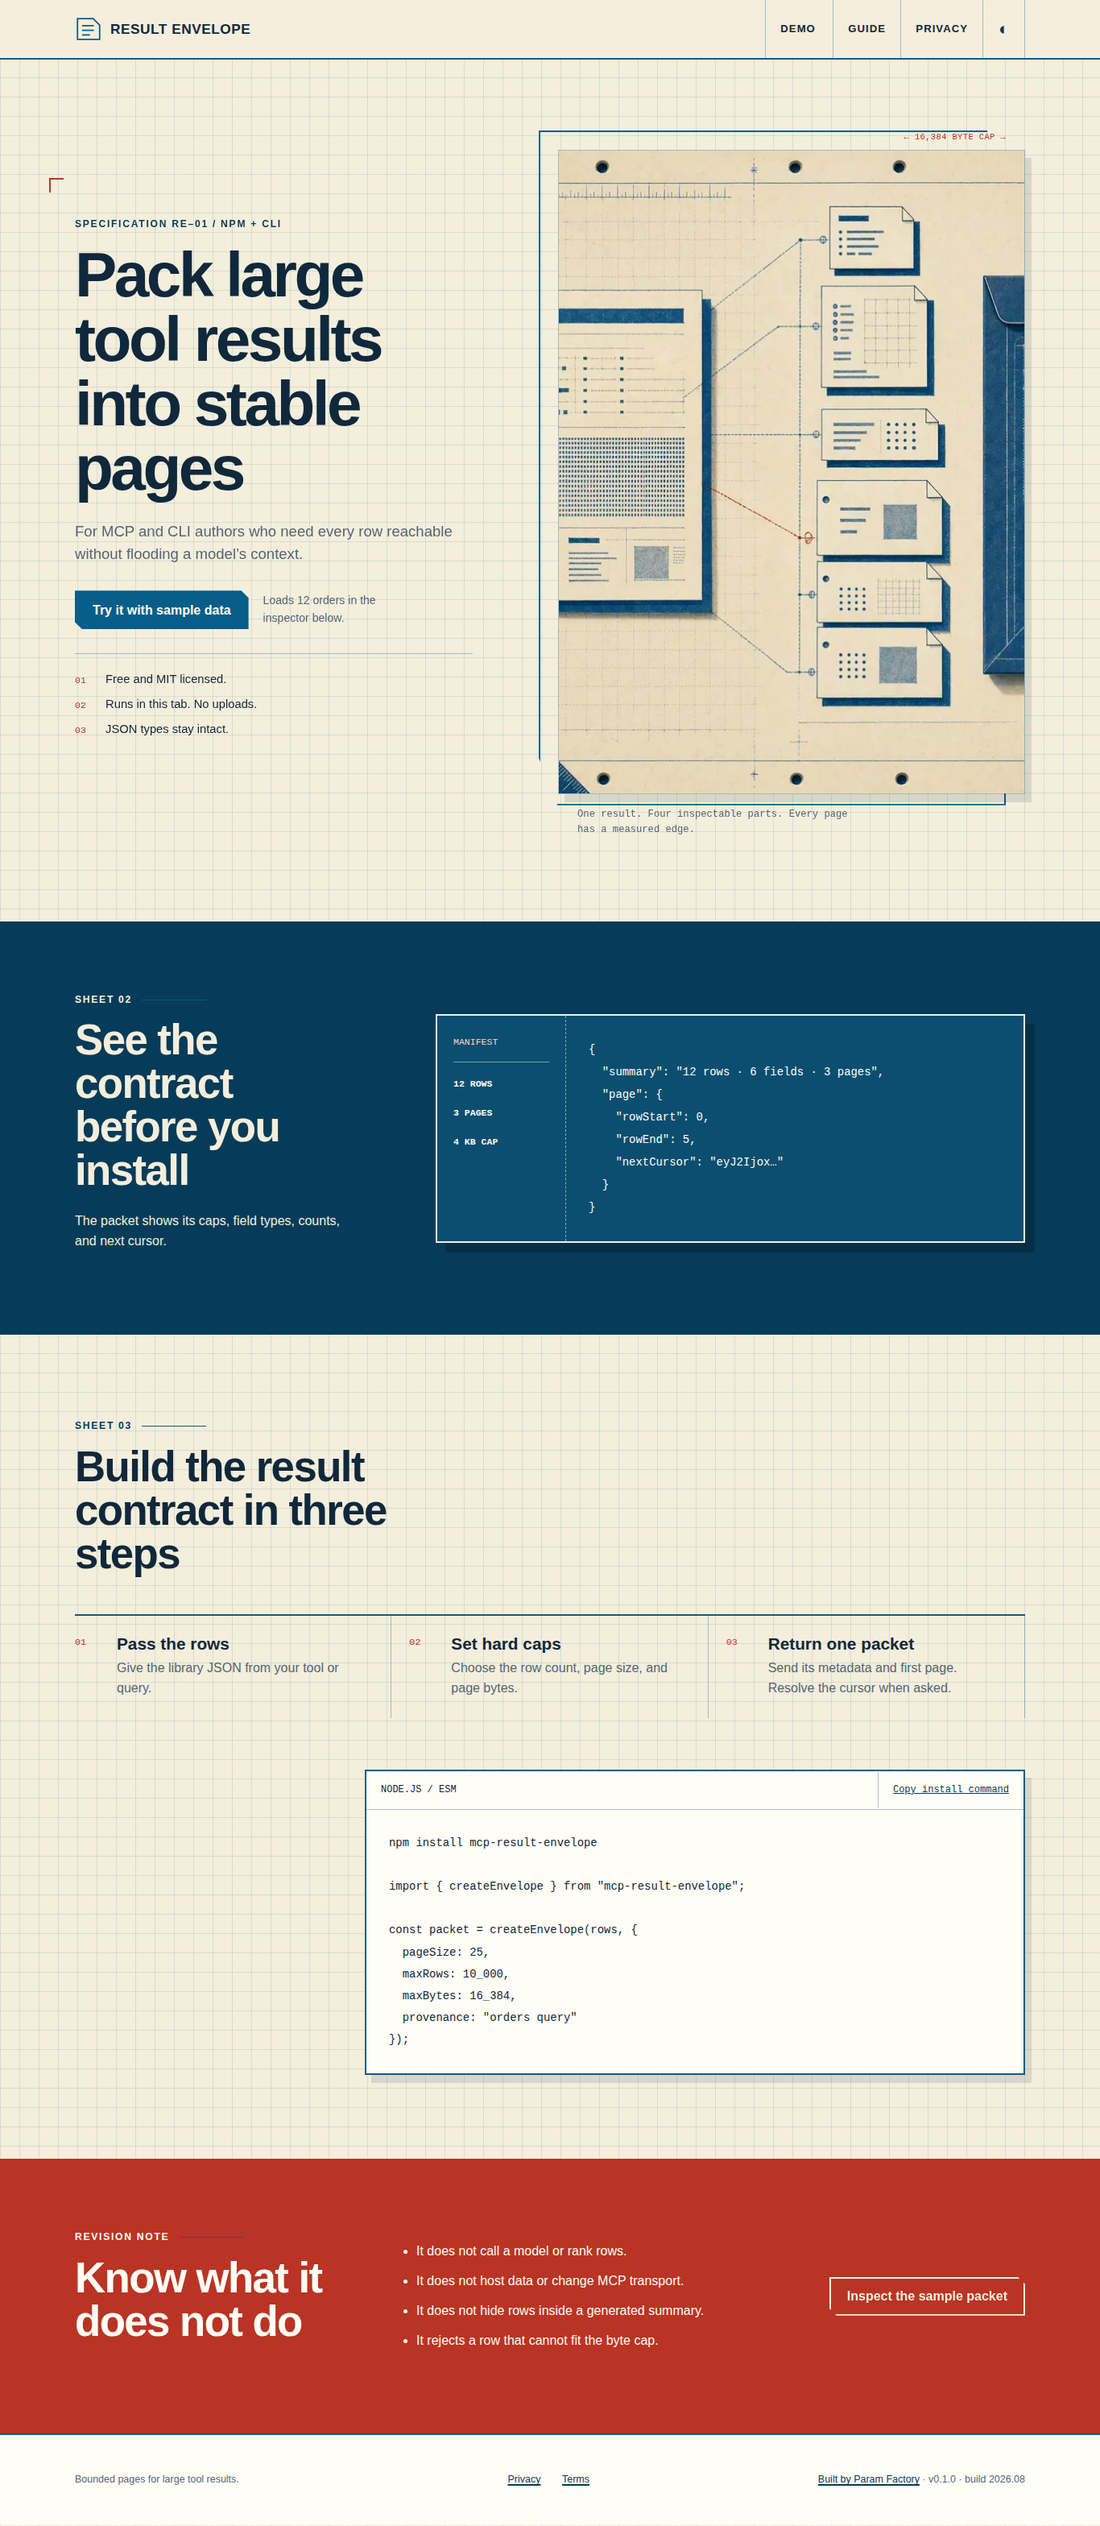
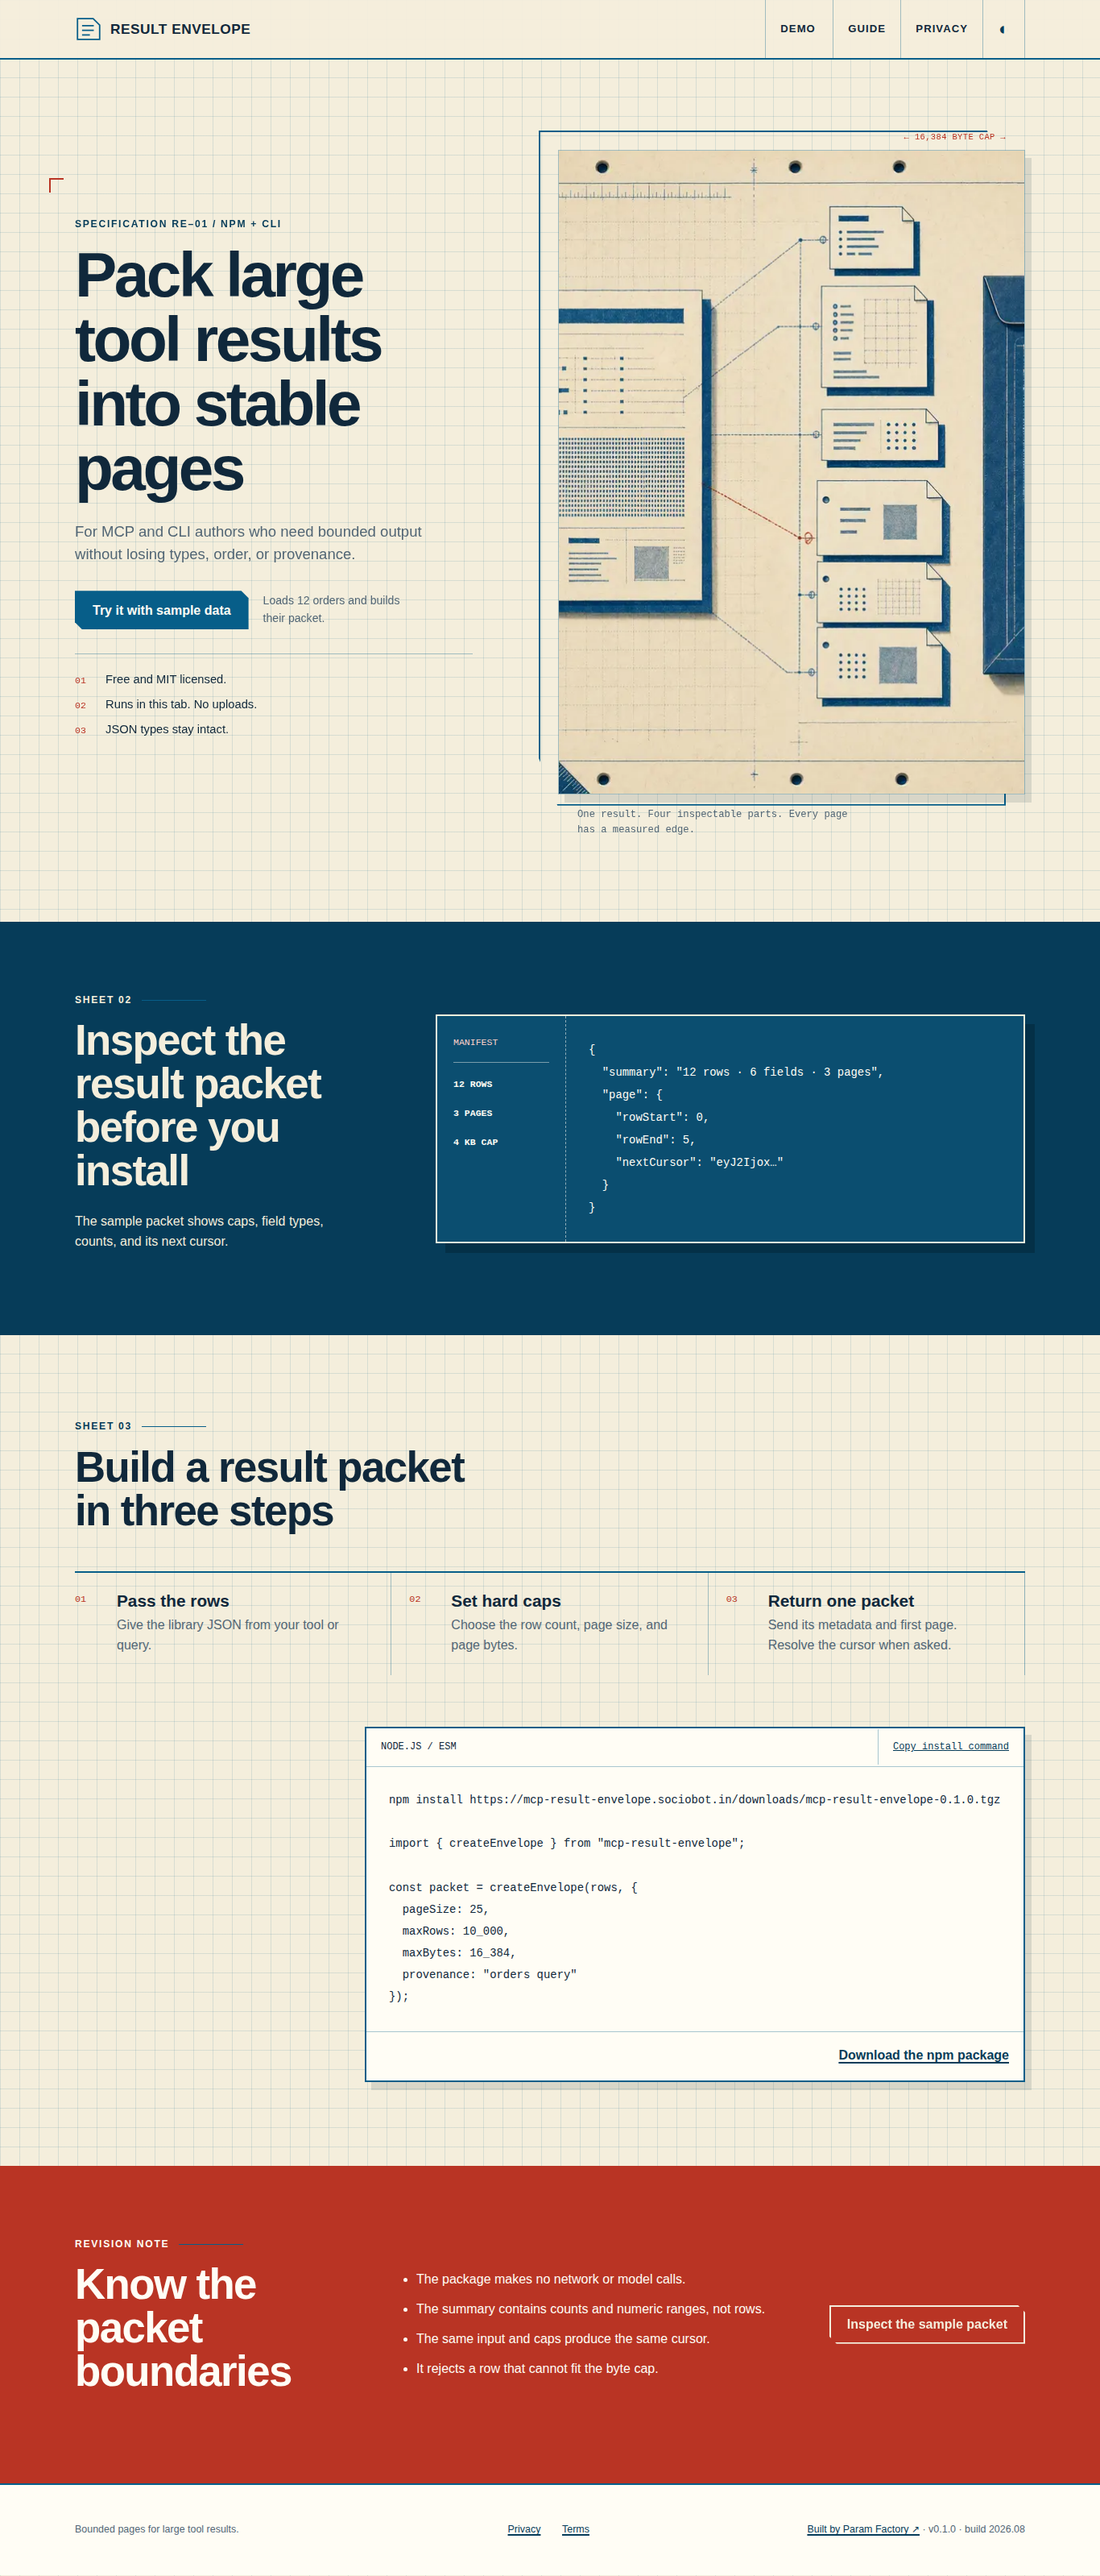
docs: record polish verification evidence

diff --git a/tests/e2e/site.spec.ts b/tests/e2e/site.spec.ts
@@ -70,10 +70,11 @@ test("@claim:local-processing sends no demo input off origin", async ({ page }) 
   const requests: string[] = [];
   page.on("request", (request) => requests.push(request.url()));
   await page.goto("/demo");
+  const origin = new URL(page.url()).origin;
   await page.locator("#json-input").fill('[{"private":"sample-secret"}]');
   await page.getByRole("button", { name: "Build the envelope" }).click();
   await expect(page.locator("#metric-rows")).toHaveText("1");
-  expect(requests.every((url) => new URL(url).origin === "http://127.0.0.1:4173")).toBe(true);
+  expect(requests.every((url) => new URL(url).origin === origin)).toBe(true);
   expect(requests.some((url) => url.includes("sample-secret"))).toBe(false);
 });
 
@@ -92,8 +93,9 @@ test("@claim:site-no-tracking loads no analytics, tracking scripts, or third-par
   const requests: string[] = [];
   page.on("request", (request) => requests.push(request.url()));
   await page.goto("/");
+  const origin = new URL(page.url()).origin;
   await page.goto("/privacy");
-  expect(requests.every((url) => new URL(url).origin === "http://127.0.0.1:4173")).toBe(true);
+  expect(requests.every((url) => new URL(url).origin === origin)).toBe(true);
   expect(await page.locator('script[src*="analytics"], script[src*="track"], link[href^="https://fonts."]').count()).toBe(0);
 });
 
@@ -116,7 +118,7 @@ test("every public route has no serious accessibility violations", async ({ page
   page.on("console", (message) => { if (message.type() === "error") errors.push(message.text()); });
   for (const colorScheme of ["light", "dark"] as const) {
     await page.emulateMedia({ colorScheme });
-    for (const route of ["/", "/demo", "/inspect", "/privacy", "/terms", "/missing-sheet"]) {
+    for (const route of ["/", "/demo", "/inspect", "/privacy", "/terms"]) {
       await page.goto(route);
       await expect(page.locator("main")).toHaveCount(1);
       await expect(page.locator("h1")).toHaveCount(1);
@@ -147,10 +149,13 @@ test("routes set distinct metadata, legal links work, and unknown paths render t
   await page.goto("/?demo=1");
   await expect(page).toHaveTitle("Demo — Result Envelope");
   await expect(page.locator('link[rel="canonical"]')).toHaveAttribute("href", "https://mcp-result-envelope.sociobot.in/demo");
-  await page.goto("/missing-sheet");
+  const missingResponse = await page.goto("/missing-sheet");
+  expect(missingResponse?.status()).toBe(process.env.PLAYWRIGHT_BASE_URL ? 404 : 200);
   await expect(page).toHaveTitle("Page not found — Result Envelope");
   await expect(page.getByRole("heading", { level: 1 })).toHaveText("This page is outside the packet");
   await expect(page.getByRole("link", { name: "Return to the main sheet" })).toBeVisible();
+  const missingA11y = await new AxeBuilder({ page }).analyze();
+  expect(missingA11y.violations.filter((item) => ["serious", "critical"].includes(item.impact ?? ""))).toEqual([]);
   await page.getByRole("link", { name: "Privacy", exact: true }).last().click();
   await expect(page).toHaveURL(/\/privacy$/);
   await page.getByRole("link", { name: "Terms", exact: true }).click();

diff --git a/playwright.config.ts b/playwright.config.ts
@@ -1,5 +1,7 @@
 import { defineConfig, devices } from "@playwright/test";
 
+const deployedBaseUrl = process.env.PLAYWRIGHT_BASE_URL;
+
 export default defineConfig({
   testDir: "tests/e2e",
   fullyParallel: true,
@@ -7,7 +9,7 @@ export default defineConfig({
   expect: { timeout: 5_000 },
   reporter: [["list"]],
   use: {
-    baseURL: "http://127.0.0.1:4173",
+    baseURL: deployedBaseUrl ?? "http://127.0.0.1:4173",
     trace: "retain-on-failure",
     screenshot: "only-on-failure"
   },
@@ -15,7 +17,7 @@ export default defineConfig({
     { name: "chromium", use: { ...devices["Desktop Chrome"] } },
     { name: "mobile", use: { ...devices["iPhone 13"], browserName: "chromium", viewport: { width: 390, height: 844 } } }
   ],
-  webServer: {
+  webServer: deployedBaseUrl ? undefined : {
     command: "npx vite preview --config site/vite.config.ts --host 127.0.0.1",
     url: "http://127.0.0.1:4173",
     reuseExistingServer: true

diff --git a/.factory/polish-1.md b/.factory/polish-1.md
@@ -1,0 +1,33 @@
+# Perfection-loop polish 1
+
+Completed 2026-08-28 for work order `mcp-result-envelope-polish-1`. Source review: `.factory/review-1.md` at `3b9fe751910d716d83afd8e47f75fe9dd0044ffa`.
+
+## Finding closure
+
+| Finding | Change made | Evidence |
+| --- | --- | --- |
[1 lines of base64/hex data omitted]
+| F-1-2 — unlisted landing and README claims | Expanded `.factory/claims.json` from 11 to 25 entries and added exactly one tagged test for each. New coverage includes the 12-order resettable sample, four populated parts, packet details, API shape, oversized rows, row caps, invalid input, no dependencies, Node engine metadata, CLI streams and exit codes, routed build output, real-inspector storage, and tracking absence. Unsupported transport/ranking language was removed. `scripts/run-claims.mjs` executes every manifest command. | `npm run test:claims` in clean clone `/tmp/mcp-result-envelope-polish-claims-7nSRMA/repo`: 25/25 passed. The one-to-one manifest/tag guard also passed. Relevant tests: `@claim:demo-sample`, `@claim:inspector-parts`, `@claim:packet-details`, `@claim:api-shape`, `@claim:row-too-large`, `@claim:zero-runtime-dependencies`, `@claim:cli-io`, `@claim:row-cap`, `@claim:input-validation`, `@claim:build-output`, and `@claim:browser-no-storage`. Demo screenshot: `.factory/evidence/polish-1-demo/screenshot-mobile.png`. |
+| F-1-3 — “contract” and “packet” terminology conflict | Replaced both landing “contract” headings with “Inspect the result packet before you install” and “Build a result packet in three steps.” Updated the complete landing copy audit and terminology table. | `tests/e2e/site.spec.ts` checks the revised landing and demo flow. Live screenshot: `.factory/evidence/screenshot-mobile.png`. Live URL: `https://mcp-result-envelope.sociobot.in/`. |
+
+## Cumulative acceptance sweep
+
+- First screen: the seven-word verb-first headline, 15-word audience sentence, one-click `/?demo=1` action, immediate outcome, and three facts are visible at 390 × 844.
+- Demo isolation: `/?demo=1` immediately builds 12 realistic orders; the persistent banner includes Reset demo and Start for real; tests prove edits disappear and no browser storage is used.
+- Routes and metadata: `/`, `/demo`, `/inspect`, `/privacy`, and `/terms` have generated route documents plus runtime titles, descriptions, canonicals, Open Graph, and Twitter metadata. Unknown paths return the styled `404.html` with HTTP 404. Navigation and Back focus the new `h1` and announce it.
+- Accessibility and mobile: the live desktop/mobile suite reports zero serious or critical axe findings. The 390 px layout has no horizontal page overflow, all tested controls meet 44 × 44 CSS px, all four tabs fit, focus is visible, and reduced motion is respected.
+- Earlier verification findings remain fixed: stdin `pack - --format ndjson --stream` emits ordered chunks, and demo/footer touch targets remain at least 44 px.
+- Visual identity remains the original blueprint drafting sheet described in `.factory/design.md`; no generic template or replacement artwork was introduced.
+
+## Evidence summary
+
+- Clean clone claim run: 25/25 passed.
+- Clean clone `npm test`: 22 unit/consumer tests and 27 browser tests passed; 3 project-conditional skips.
+- Live browser suite: 27 passed; 3 project-conditional skips.
+- Live route status: `/`, `/demo`, `/inspect`, `/privacy`, `/terms`, package, robots, and sitemap returned 200; `/missing-sheet` returned 404.
+- Live verifier: no console errors; one `h1`; one `main`; `lang=en`; no missing alt text or unlabeled buttons.
+- Live mobile Lighthouse: performance 100, accessibility 100, best practices 100, SEO 100; LCP 1.4 s; CLS 0; TBT 0 ms.
+- Production assets: initial JavaScript 8.81 KB gzip; CSS 4.31 KB gzip; hero 98.3 KB.
+- Screenshots: `.factory/evidence/screenshot-desktop.png`, `.factory/evidence/screenshot-mobile.png`, `.factory/evidence/polish-1-demo/screenshot-desktop.png`, `.factory/evidence/polish-1-demo/screenshot-mobile.png`.
+
+No finding from the review or earlier verification records remains unresolved.

diff --git a/.factory/handoff.md b/.factory/handoff.md
@@ -1,19 +1,52 @@
-# Review 1 handoff — FAIL
+# Polish 1 handoff — complete
 
-Reviewer pass completed 2026-08-28 for work order `mcp-result-envelope-review-1` at commit `5dcde66a97799b45d07c017ccec9bd141668b290`.
+Work order `mcp-result-envelope-polish-1` repaired candidate `a673782835f9bbe2e0f860b15751a3f158dd3d45` against every finding in `.factory/review-1.md`. No earlier review or polish report exists; both earlier verification findings were also retested.
 
-The full report is [`.factory/review-1.md`](review-1.md). No product code was changed.
+## What changed
 
-The web demo, claimed behaviours, accessibility pass, build, and package dry-run passed. The release is not acceptable because `mcp-result-envelope` is absent from the public npm registry: both documented `npx mcp-result-envelope demo` and `npm install mcp-result-envelope` return npm E404. The report also identifies unlisted claim-like landing/README copy and inconsistent “contract”/“packet” terminology.
+- Replaced broken public-registry commands with a versioned npm tarball shipped by the static site. The production download installs into a clean npm project and exposes ESM, CommonJS, declarations, and the CLI.
+- Rewrote the first-screen audience/outcome copy and standardized the product noun as “packet.”
+- Made `/?demo=1` the primary one-click path. It loads and builds 12 sample orders with a persistent demo/reset/exit banner and memory-only isolation.
+- Expanded the claims contract to 25 claims with exactly one tagged behavioural test per claim and added `npm run test:claims`.
+- Added generated entry documents for every real route, complete dynamic metadata updates, a real styled HTTP 404, legal-link coverage, focus announcements, and live-suite support.
+- Kept the blueprint drafting-sheet identity and refined the 390 px tabs so all four parts remain visible.
+- Updated the copy audit, demo documentation, changelog, catalog description, verification evidence, and finding map in `.factory/polish-1.md`.
 
-Verification run from a clean checkout:
+## Verification
+
+From a clean clone:
 
 ```sh
 npm ci
+npm run test:claims
 npm test
-npm run build
 npm run pack:check
-npm view mcp-result-envelope@0.1.0 version
 ```
 
-The final command must return the published version before the documented install path can be accepted. Then add publication and unlisted-claim tests, deploy, and repeat the complete review.
+Results:
+
+- Claims: 25/25 passed independently.
+- Full gate: typecheck passed; production build passed; 22/22 unit and consumer tests passed; 27 browser tests passed with 3 intentional project-only skips.
+- Package dry run: 9.8 KB tarball, 10 declared files, zero runtime dependencies.
+- Build output: `dist/index.js`, `dist/index.cjs`, `dist/index.d.ts`, `dist/cli.js`, and routed `dist/site/` including the package tarball and `404.html`.
+- Initial site payload: 8.81 KB gzip JavaScript and 4.31 KB gzip CSS. Hero image: 98.3 KB.
+
+Production deployment and cold checks:
+
+- URL: `https://mcp-result-envelope.sociobot.in/`
+- Direct demo: `https://mcp-result-envelope.sociobot.in/?demo=1`
+- Package: `https://mcp-result-envelope.sociobot.in/downloads/mcp-result-envelope-0.1.0.tgz`
+- Live browser suite: 27 passed, 3 project-conditional skips across desktop and 390 px mobile.
+- Live route statuses: five product/legal routes, package, robots, and sitemap returned 200; an unknown route returned 404 with the designed page.
+- Live package consumer: install passed; ESM import returned the expected two-page summary; installed CLI demo created a fresh temporary packet.
[1 lines of base64/hex data omitted]
+- Live verifier: no console errors; valid title and `lang`; one `h1`; one `main`; no missing alt text or unlabeled buttons.
+- Live axe coverage: zero serious or critical findings across every route, both themes, and the 404.
+- Live mobile Lighthouse: performance 100, accessibility 100, best practices 100, SEO 100; LCP 1.4 s, CLS 0, TBT 0 ms.
+- Security headers: HSTS, self-only CSP, nosniff, strict-origin referrer policy, and restrictive permissions policy present.
+
+Evidence is in `.factory/evidence/` and the finding-by-finding record is `.factory/polish-1.md`.
+
+## Known gaps and next steps
+
+None for this work order. The npm registry name remains unpublished, so the product truthfully uses its tested, versioned release tarball. Registry publication remains a factory release operation and is not advertised as complete.
